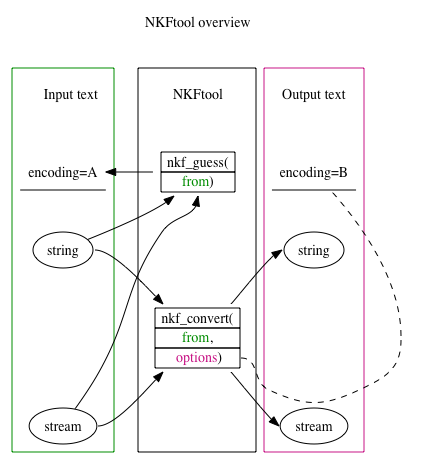
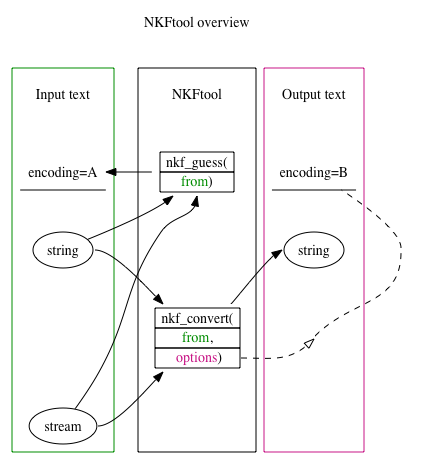
docs: outputs are string

diff --git a/docs/src/man/guideja.md b/docs/src/man/guideja.md
@@ -73,6 +73,8 @@ julia> nkf_convert(raw"こんにちわ", "-w -m0")
 入力エンコーディングのオプションを一つだけ指定してもよいです。
 すなわち、 `-J`, `-S`, `-E`, または `-W` のどれかです。
 
+`nkf_convert` の戻り値は、テキストの出力文字列です。
+
 Julia では、UTF-8 以外でエンコードされた文字列は印字可能ではありません。
 これらを印字可能な文字列に変換するのが便利でしょう。
 例えば、以下のように `Base64.base64encode()` を使います。
@@ -92,7 +94,6 @@ julia> String(base64decode(ans)) |> nkf_convert
 `nkf_guess` は、第１引数としてテキストの入力ストリームも受け取ります。
 
 `nkf_convert` も、第１引数としてテキストの入力ストリームを受け取ります。
-この場合の返り値は、テキストの出力ストリームです。
 
 例えば、テキストファイルのエンコードを推定するには、
 以下のように、
@@ -110,9 +111,6 @@ julia> open("hello_sjis.txt","w") do f
        end
 "Shift_JIS"
 ```
-
-
-
 
 Shift\_JIS エンコーディングされたテキストファイルを UTF-8 に変換して、Julia の文字列として読み込むには、
 以下のように、 [`nkf_convert(from::IO, options="-w -m0")`](@ref)

diff --git a/docs/src/man/guide.md b/docs/src/man/guide.md
@@ -71,6 +71,7 @@ only one of `-j` (ISO-2022-JP), `-s` (Shift\_JIS),
 `-e` (EUC-JP) and `-w` (UTF-8), should be specified.
 The input encoding option, only one of `-J`, `-S`, `-E` and `-W`, may be specified if you know the encoding of the input string `from`.
 
+`nkf_convert` function returns the output text string.
 Because in Julia strings in the encoding other than UTF-8 are not printable ,
 it is a good practice to encode them to printable characters with e.g. `Base64.base64encode()`, as follows:
 
@@ -89,8 +90,7 @@ julia> String(base64decode(ans)) |> nkf_convert
 `nkf_guess` function accepts input text stream for the first argument.
 
 `nkf_convert` function also accepts
-input text stream for the first argument,
-which returns the output text stream.
+input text stream for the first argument.
 
 See the following code using [`nkf_guess(from::IO)`](@ref)
 to guess the encoding of a text file.
